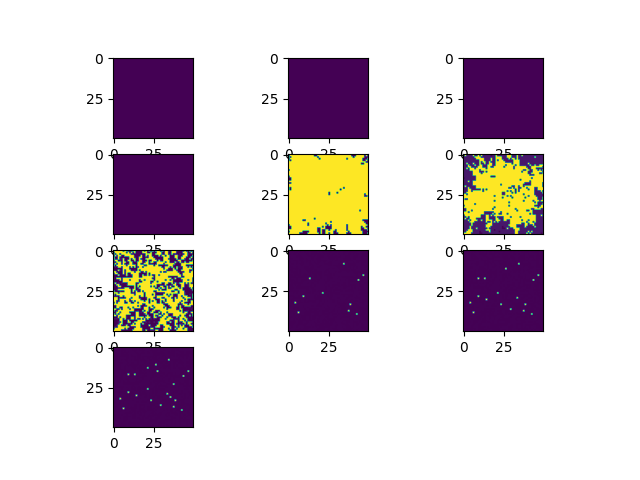
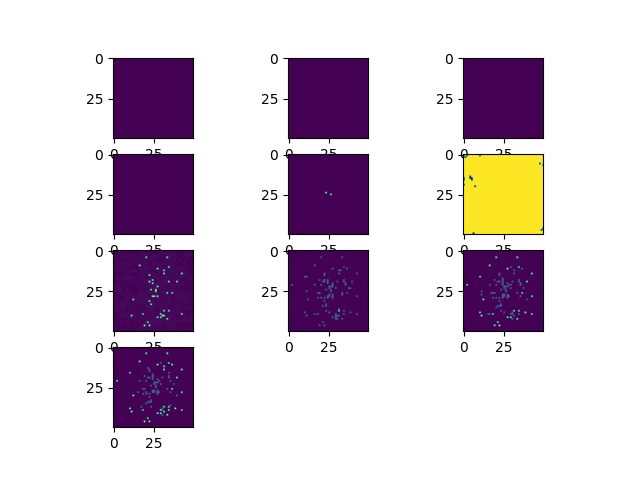
Updates again

diff --git a/code/ridge_regularization.py b/code/ridge_regularization.py
@@ -6,6 +6,47 @@ from paralleltomo import paralleltomo
 import sklearn.linear_model as sklin
 from generate_test_functions import *
 
+def generate_confusion(predictions,original_im,predicted_im,att_coef):
+    
+    true_positive = 0
+    false_positive = 0
+    false_negative = 0
+    true_negative = 0
+    
+    for i,j in predictions:
+        if(predicted_im[i,j]==att_coef):   #Predicted pellet
+            if(original_im[i,j]==predicted_im[i,j]):    #Pellet prediction true
+                true_positive += 1
+            else: # Pellet prediction false
+                false_positive += 1
+        elif(original_im[i,j]==att_coef):   #Predicted wood
+            if(original_im[i,j]==predicted_im[i,j]): #Wood prediction true
+                true_negative += 1
+            else:   #Wood prediction false
+                false_negative += 1
+    confusion_matrix = np.array([[true_negative, false_positive], [false_negative, true_positive]])
+    return confusion_matrix
+
+def predictions(recovered_image, attenuations):
+    # Attenuations, wood, bismuth, steel
+    n,m = recovered_image.shape
+    c = n//2
+    predicted_bismuth = []
+    predicted_steel = []
+    predicted_image = np.zeros((n,m))
+    for i in range(n):
+        for j in range(m):
+            if ((i - c)**2 + (j - c)**2) <= c**2:
+                x = recovered_image[i,j]
+                y = np.abs([x-attenuations[0],x-attenuations[1],x-attenuations[2]])
+                idx = np.argmin(y)
+                predicted_image[i,j] = attenuations[idx]
+                if(idx==1):
+                    predicted_bismuth.append((i,j))
+                elif(idx==2):
+                    predicted_steel.append((i,j))
+    return predicted_image,predicted_bismuth,predicted_steel
+
 def likelihood(recovered_image, attenuations):
     n,m = recovered_image.shape
     for i in range(n):
@@ -22,56 +63,74 @@ def poisson_noise(b, lamb=1):
 def add_noise_float(b, mean_noise, std_noise):
     return b + np.random.normal(loc=mean_noise, scale=std_noise, size=b.shape)
 
-n = 50
-num_pellets = 100
-pellet_size = 1
+testImage = np.load("./testimage.npy")
 
-# Air, Wood, Bismuth, Iron at 16.4 keV
-att_coefs = [0,1.0646,147.8,48.3665]
-im = generate_im(n,att_coefs,num_pellets,pellet_size)
+max_pixel = np.max(testImage)
+testImage = testImage / max_pixel
 
-x_input = im.flatten(order = "F")
+unique_values = np.unique(testImage)
+downSamplingFactor = 200
 
-theta = np.matrix(np.linspace(1 + 0, 1 + 180-2, 180 // 2))
-p=30
-A, _,_ ,_ = paralleltomo(n,theta,p)
-print(f"Condition number {np.linalg.cond(A)}")
+N = int(testImage.shape[1]/downSamplingFactor)
+resizedImage = ski.measure.block_reduce(testImage, block_size=downSamplingFactor)
+x_input = resizedImage.flatten(order="F")
+
+A,_,_,_ = paralleltomo(N)
 
 b = A @ x_input
 
-b_poisson = poisson_noise(b,lamb = 1)
 
 
-# Plot of pixels as a function of alpha ||Ax-b||_2 + alpha*||x||_2
-n_alphas = 10
-alphas = np.logspace(10, -2, n_alphas)
-no_noise_predict = []
-noise_predict = []
-for a in alphas:
-    model = sklin.Ridge(alpha=a, fit_intercept=False)
+# n = 50
+# num_pellets = 100
+# pellet_size = 1
 
-    model.fit(A, b)
-    im_recov_no_noise = np.reshape(model.coef_,(n,n))
+# # Wood, Bismuth, Iron at 16.4 keV
+# att_coefs = [1.0646,147.8,48.3665]
+# #im = generate_im(n,att_coefs,num_pellets,pellet_size)
 
-    model.fit(A,b_poisson)
-    im_recov_noise = np.reshape(model.coef_,(n,n))
+# x_input = im.flatten(order = "F")
 
-    no_noise_predict.append(likelihood(im_recov_no_noise,att_coefs))
-    noise_predict.append(likelihood(im_recov_noise,att_coefs))
+# theta = np.matrix(np.linspace(1 + 0, 1 + 180-2, 180 // 2))
+# p=30
+# A, _,_ ,_ = paralleltomo(n,theta,p)
+# print(f"Condition number {np.linalg.cond(A)}")
 
-plt.figure(1)
-# Plot images
-for i in range(n_alphas):
-    plt.subplot(4,3,i+1)
-    plt.imshow(np.asarray(no_noise_predict[i]))
+# b = A @ x_input
 
-plt.savefig(";))")
-plt.close()
+# b_poisson = poisson_noise(b,lamb = 1)
 
-plt.figure(2)
-for i in range(n_alphas):
-    plt.subplot(4,3,i+1)
-    plt.imshow(np.asarray(noise_predict[i]))
 
-plt.savefig(";)))")
-plt.close()
+# # Plot of pixels as a function of alpha ||Ax-b||_2 + alpha*||x||_2
+# n_alphas = 10
+# alphas = np.logspace(10, -2, n_alphas)
+# no_noise_predict = []
+# noise_predict = []
+# for a in alphas:
+#     model = sklin.Ridge(alpha=a, fit_intercept=False)
+
+#     model.fit(A, b)
+#     im_recov_no_noise = np.reshape(model.coef_,(n,n))
+
+#     model.fit(A,b_poisson)
+#     im_recov_noise = np.reshape(model.coef_,(n,n))
+
+#     no_noise_predict.append(likelihood(im_recov_no_noise,att_coefs))
+#     noise_predict.append(likelihood(im_recov_noise,att_coefs))
+
+# plt.figure(1)
+# # Plot images
+# for i in range(n_alphas):
+#     plt.subplot(4,3,i+1)
+#     plt.imshow(np.asarray(no_noise_predict[i]))
+
+# plt.savefig(";))")
+# plt.close()
+
+# plt.figure(2)
+# for i in range(n_alphas):
+#     plt.subplot(4,3,i+1)
+#     plt.imshow(np.asarray(noise_predict[i]))
+
+# plt.savefig(";)))")
+# plt.close()
